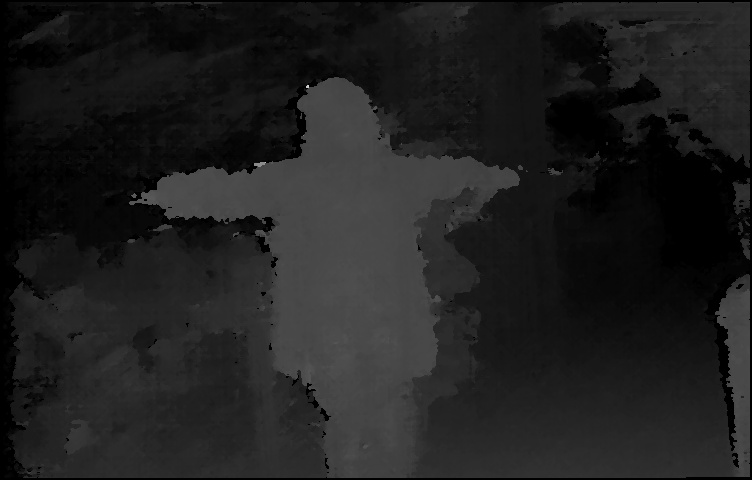
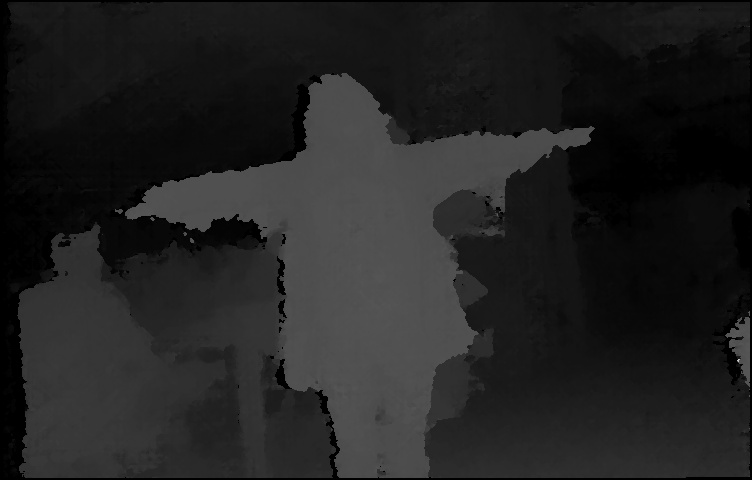
add new images

diff --git a/src/PoseRecognition.cpp b/src/PoseRecognition.cpp
@@ -74,8 +74,9 @@ void BiCamera::FitPlane(PC::Ptr cloud)
 void BiCamera::Init()
 {
   // ros publish
-  pub = nh.advertise<PC> ("points_temp", 1);
-  pub2 = nh.advertise<PC> ("points_test", 1);
+  pub = nh.advertise<PC> ("points_compute", 1); 
+  pub2 = nh.advertise<PC> ("points_right", 1);
+  pub3 = nh.advertise<PC> ("points_test", 1);
   
   image_transport::ImageTransport it(nh_image);
   pub_image = it.advertise("camera/image_raw", 1);
@@ -90,12 +91,16 @@ void BiCamera::Init()
 void BiCamera::Run()
 {
   int num;
-  //int face_index[9] = {9, 17, 18, 32, 34, 42, 52, 58, 63}; // for test
-  int length = 68;
-  int face_index[length];
-  for (int i = 0; i < length; i++)
-    face_index[i] = i + 1;
+  int length = 9;
   int index = 0;
+
+  // test some error images
+  int face_index[9] = {9, 17, 18, 32, 34, 42, 52, 58, 63};
+
+  // test all images
+  //int face_index[length];
+  //for (int i = 0; i < length; i++)
+  //  face_index[i] = i + 1;
   
   loop_rate = new ros::Rate(4);
   
@@ -162,7 +167,10 @@ bool BiCamera::ProcessTemplate()
       process_image.GetImage(left, disp, i + 1, TEMPLATE); 
 
       // median filtering
-      medianBlur(disp, disp, 9); 
+      medianBlur(disp, disp, 9);
+
+      // depth image convert to point clouds
+      DepthImageToPc(disp, cloud);
 
       // using Haar-method to search for human face
       // Rect human_face = search_face.Haar(left); 
@@ -178,9 +186,7 @@ bool BiCamera::ProcessTemplate()
       	}
       Rect human_face = search_face.Dlib(Arr);
       if (human_face == cv::Rect(0, 0, 0, 0)) return false; // no human face
-
-      // depth image convert to point clouds
-      DepthImageToPc(disp, cloud, human_face);
+      Segmentation(disp, cloud, human_face);
       
       // filter point clouds
       PC::Ptr cloud_filtered(new PC);
@@ -242,7 +248,8 @@ bool BiCamera::ProcessTest(Mat& left, Mat& disp, int num)
   if (human_face == cv::Rect(0, 0, 0, 0)) return false; // no human face
 
   // depth image convert to point clouds
-  DepthImageToPc(disp, cloud, human_face);
+  DepthImageToPc(disp, cloud);
+  Segmentation(disp, cloud, human_face);
 
   // filter point clouds
   PC::Ptr cloud_filtered(new PC);
@@ -269,7 +276,7 @@ bool BiCamera::ProcessTest(Mat& left, Mat& disp, int num)
   if (z_range < ZRANGE) // pose in xy-plane
     {
       Projection(cloud_normalized); // project to xy-plane
-      *cloud_rviz_2 = *cloud_normalized;
+      *cloud_rviz_3 = *cloud_normalized;
       for (int i = 0; i < temp_xy_num; ++i)
   	{      
   	  BiCamera::ICP_result result1 = MatchTwoPc(temp_cloud_ptr[i], cloud_normalized, output);
@@ -285,6 +292,8 @@ bool BiCamera::ProcessTest(Mat& left, Mat& disp, int num)
 	{
 	  printf("This image is similiar to disp_%d  score: %f\n", min_index + 1, min_value);
 	  *cloud_rviz_1 = *temp_cloud_ptr[min_index];
+	  if (answer[num - 1] - 1 >= 0 && answer[num - 1] - 1 < 10)
+	    *cloud_rviz_2 = *temp_cloud_ptr[answer[num - 1] - 1];
 	  if (min_index + 1 == answer[num - 1]) printf("\n%d Right!!!!!!!!!!!!\n", num);
 	  else printf("\n%d Wrong!!!!!!!!!!!!!\n", num);
 	}
@@ -304,7 +313,7 @@ bool BiCamera::ProcessTest(Mat& left, Mat& disp, int num)
 
       for (size_t i = 0; i < cloud_normalized->points.size (); ++i)
 	{
-	  if (cloud_normalized->points[i].z - min_pt.z > 8 && cloud_normalized->points[i].z - min_pt.z < 12) // get points in a line and search for the y_range
+	  if (cloud_normalized->points[i].z - min_pt.z > 8 && cloud_normalized->points[i].z - min_pt.z < 12) // get points in a interval  and search for the y_range
 	    {
 	      if (cloud_normalized->points[i].y < y_min) y_min = cloud_normalized->points[i].y;
 	      else if (cloud_normalized->points[i].y > y_max) y_max = cloud_normalized->points[i].y;
@@ -343,19 +352,15 @@ bool BiCamera::ProcessTest(Mat& left, Mat& disp, int num)
 }
 
 
-void BiCamera::DepthImageToPc(Mat& img, PC::Ptr cloud, Rect face) 
+void BiCamera::Segmentation(Mat& img, PC::Ptr cloud, Rect face)
 {
-  // camera params
   const double kBMultipyF = 35981.122607;  // kBMultipyF = b*f
   const double kF = 599.065803;
   const double kCu = 369.703644;
   const double kCv = 223.365112;
-	
-  double x = 0.00;
-  double y = 0.00;
-  double z = 0.00;
-  double d_real = 0.0;
 
+  double d_real = 0.0;
+  
   // get the midpoint of the human face
   int u = face.y + face.height / 2;
   int v = face.x + face.width / 2;
@@ -368,9 +373,49 @@ void BiCamera::DepthImageToPc(Mat& img, PC::Ptr cloud, Rect face)
   face_mid_point.x = (u - kCu) * face_mid_point.z / kF;
   face_mid_point.y = (v - kCv) * face_mid_point.z / kF;
   cout << "face_mid_point" << face_mid_point << endl;
-  
-  // convert depth image to point cloud (z-value has constraint)
+
+  pcl::ConditionAnd<pcl::PointXYZ>::Ptr range_cond(new pcl::ConditionAnd<pcl::PointXYZ>());
+  range_cond->addComparison(
+    pcl::FieldComparison<pcl::PointXYZ>::ConstPtr(
+      new pcl::FieldComparison<pcl::PointXYZ>("z", pcl::ComparisonOps::LT, face_mid_point.z + 250))
+  );
+  range_cond->addComparison(
+    pcl::FieldComparison<pcl::PointXYZ>::ConstPtr(
+      new pcl::FieldComparison<pcl::PointXYZ>("z", pcl::ComparisonOps::GT, 1000))
+  );
+  pcl::ConditionalRemoval<pcl::PointXYZ> condrem(range_cond);
+  condrem.setInputCloud(cloud);            
+  condrem.filter(*cloud);        
+
+  for (int i = 0; i < cloud->points.size(); ++i)
+    {
+      cloud->points[i].x /= SCALE; // divide SCALE in order to accelerate 
+      cloud->points[i].y /= SCALE;
+      cloud->points[i].z /= SCALE;
+    }
+
+  face_mid_point.x /= SCALE;
+  face_mid_point.y /= SCALE;
+  face_mid_point.z /= SCALE;
+}
+
+
+void BiCamera::DepthImageToPc(Mat& img, PC::Ptr cloud) 
+{
+  // camera params
+  const double kBMultipyF = 35981.122607;  // kBMultipyF = b*f
+  const double kF = 599.065803;
+  const double kCu = 369.703644;
+  const double kCv = 223.365112;
+	
+  double x = 0.00;
+  double y = 0.00;
+  double z = 0.00;
+  double d_real = 0.0;
+
   int index = 0;
+
+  // convert depth image to point cloud (z-value has constraint)
   for (int u = 0; u < height; ++u)
     for (int v = 0; v < width; ++v)
       {
@@ -386,19 +431,12 @@ void BiCamera::DepthImageToPc(Mat& img, PC::Ptr cloud, Rect face)
   	y = (v - kCv) * z / kF;
 
   	// store data to cloud
-	if (z > 1000 && z < face_mid_point.z + 250) // constraint z-value
-	  {
-  	    cloud->points[index].x = x / SCALE; // divide SCALE in order to accelerate 
-  	    cloud->points[index].y = y / SCALE;
-  	    cloud->points[index].z = z / SCALE;
-  	    ++index;
-	  }
+	cloud->points[index].x = x; // divide SCALE in order to accelerate 
+	cloud->points[index].y = y;
+	cloud->points[index].z = z;
+	index++;
       }
-  cloud->points.resize(index); // remove no-data points
-
-  face_mid_point.x /= SCALE;
-  face_mid_point.y /= SCALE;
-  face_mid_point.z /= SCALE;
+  cloud->points.resize(index);
 }
 
 
@@ -578,6 +616,7 @@ void BiCamera::ShowRviz()
 {
   PC::Ptr msg (new PC);
   PC::Ptr msg2 (new PC);
+  PC::Ptr msg3 (new PC);
 
   msg->header.frame_id = "map"; // necessary
   msg->height = cloud_rviz_1->points.size();
@@ -590,6 +629,12 @@ void BiCamera::ShowRviz()
   msg2->width = 1;
   msg2->is_dense = true;
   msg2->points.resize(cloud_rviz_2->points.size()); // necessary
+
+  msg3->header.frame_id = "map"; // necessary
+  msg3->height = cloud_rviz_3->points.size();
+  msg3->width = 1;
+  msg3->is_dense = true;
+  msg3->points.resize(cloud_rviz_3->points.size()); // necessary
 
   for (size_t i = 0; i < msg->points.size(); ++i)
    {
@@ -604,11 +649,20 @@ void BiCamera::ShowRviz()
       msg2->points[i].y = cloud_rviz_2->points[i].y / 255.0 * SCALE;
       msg2->points[i].z = cloud_rviz_2->points[i].z / 255.0 * SCALE;
     }
+
+  for (size_t i = 0; i < msg3->points.size (); ++i)
+    {
+      msg3->points[i].x = cloud_rviz_3->points[i].x / 255.0 * SCALE;
+      msg3->points[i].y = cloud_rviz_3->points[i].y / 255.0 * SCALE;
+      msg3->points[i].z = cloud_rviz_3->points[i].z / 255.0 * SCALE;
+    }
       
   pcl_conversions::toPCL(ros::Time::now(), msg->header.stamp);
   pub.publish (msg);     
   pcl_conversions::toPCL(ros::Time::now(), msg2->header.stamp);
   pub2.publish (msg2);
+  pcl_conversions::toPCL(ros::Time::now(), msg3->header.stamp);
+  pub3.publish (msg3);
 }
 
 

diff --git a/src/PoseRecognition.h b/src/PoseRecognition.h
@@ -19,6 +19,7 @@
 #include <pcl_conversions/pcl_conversions.h>
 #include <pcl_ros/point_cloud.h>
 #include <pcl/filters/voxel_grid.h>
+#include <pcl/filters/conditional_removal.h>
 #include <pcl/kdtree/kdtree.h>
 #include <pcl/ModelCoefficients.h>
 #include <pcl/sample_consensus/method_types.h>
@@ -58,13 +59,14 @@ typedef pcl::PointCloud<pcl::PointXYZ> PC;
 
 bool flag_sub;
 int Arr[200];
+// right answer of 68 test images
 int answer[68] = {8, 10, 1, 2, 3, 4, 6, 5, 0, 10,
                   8, 9, 7, 1, 2, 4, 3, 6, 5, 9,
                   7, 1, 2, 4, 3, 6, 5, 8, 10, 9,
                   7, 1, 2, 4, 3, 6, 5, 10, 8, 9,
                   0, 1, 2, 3, 4, 6, 5, 8, 10, 9,
                   7, 1, 4, 3, 2, 5, 6, 0, 10, 8,
-                  9, 7, 1, 2, 4, 3, 6, 5};
+                  9, 7, 1, 2, 4, 3, 6, 5};         
 
 class BiCamera
 {  
@@ -75,7 +77,7 @@ public:
     float score;
   };
 
-  BiCamera(): width(752), height(480), temp_num(10), temp_xy_num(7), cloud_rviz_1(new PC), cloud_rviz_2(new PC) {} 
+ BiCamera(): width(752), height(480), temp_num(10), temp_xy_num(7), cloud_rviz_1(new PC), cloud_rviz_2(new PC), cloud_rviz_3(new PC){} 
   ~BiCamera();
   
   void Init(); // initialize
@@ -85,7 +87,8 @@ public:
   bool ProcessTest(Mat& left, Mat& disp, int num); // only process one test image
   
   void FitPlane(PC::Ptr cloud); // use point clouds to fit a plane
-  void DepthImageToPc(Mat& depth_image, PC::Ptr cloud, Rect face); // convert depth-image to point clouds
+  void DepthImageToPc(Mat& depth_image, PC::Ptr cloud); // convert depth-image to point clouds
+  void Segmentation(Mat& depth_image, PC::Ptr cloud, Rect face); // constraint point clouds in a z_range and compress point clouds
   bool GetPeople(PC::Ptr cloud); //  get people cluster
   bool Filter(const PC::Ptr cloud, PC::Ptr cloud_filtered); // filter point clouds
   void Normalize(PC::Ptr cloud, PC::Ptr cloud_normalized); // normalize a point cloud, e.g. rotate, translate and scale
@@ -101,8 +104,9 @@ private:
   
   // for ros(rviz)
   ros::NodeHandle nh;  
-  ros::Publisher pub;
-  ros::Publisher pub2;
+  ros::Publisher pub; // show rviz of computed template point clouds
+  ros::Publisher pub2; // show rviz of right template point clouds
+  ros::Publisher pub3; // show rviz of point clouds
 
   // for ros(send and receive image)
   ros::NodeHandle nh_image;
@@ -122,6 +126,7 @@ private:
   // show rviz
   PC::Ptr cloud_rviz_1;
   PC::Ptr cloud_rviz_2;
+  PC::Ptr cloud_rviz_3;
 };
 
 #endif // POSERECOGNITION_H_
